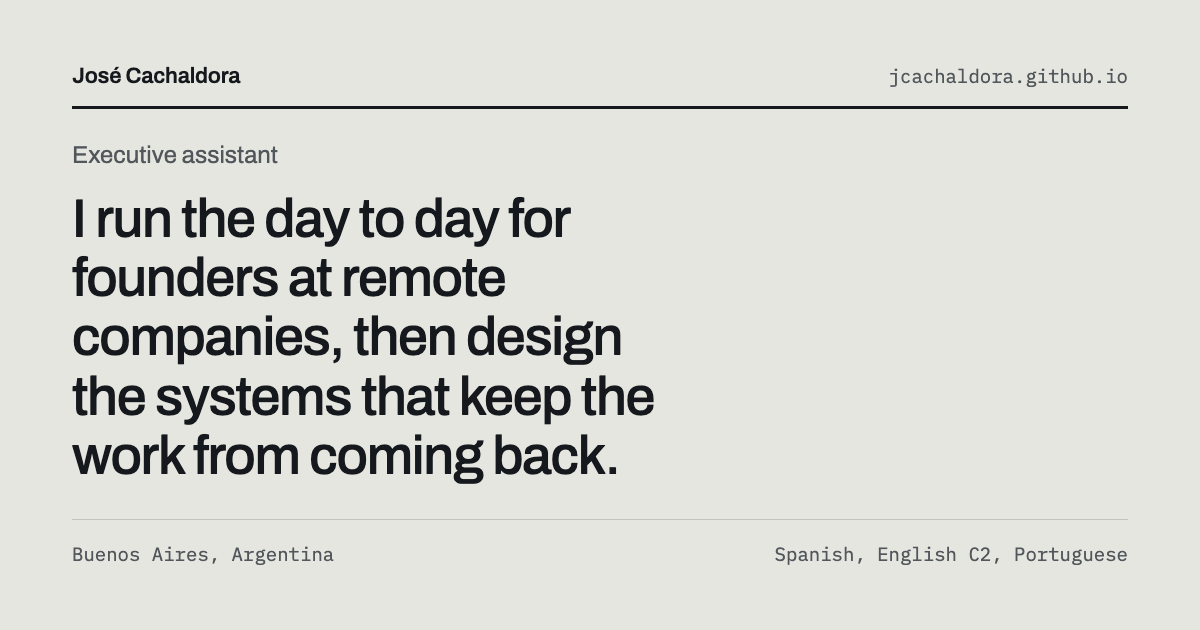
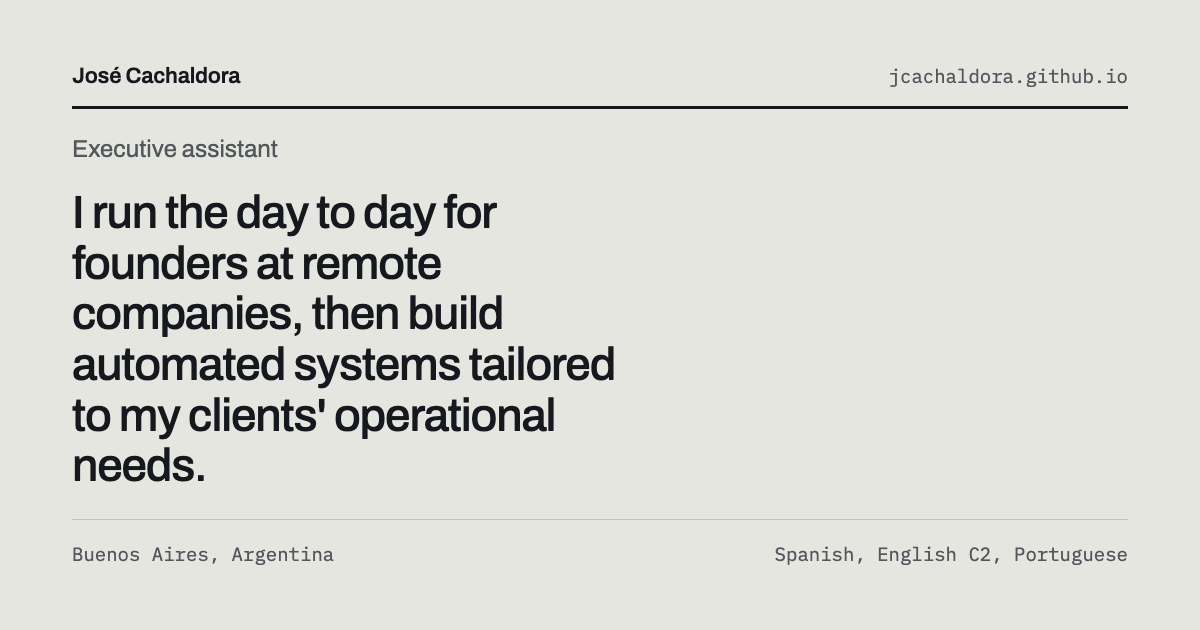
Update headline, working hours, time zones and tools

Changed region(s): [[0.0617, 0.3016, 0.555, 0.7841], [0.0617, 0.2111, 0.2467, 0.2714]]

diff --git a/index.html b/index.html
@@ -4,22 +4,22 @@
 <meta charset="utf-8">
 <meta name="viewport" content="width=device-width, initial-scale=1">
 <title>José Cachaldora, Executive Assistant in Buenos Aires</title>
-<meta name="description" content="Executive assistant in Buenos Aires. I run the day to day for founders at remote companies and design the systems that keep repetitive work from coming back.">
+<meta name="description" content="Executive assistant in Buenos Aires. I run the day to day for founders at remote companies and build automated systems tailored to my clients' operational needs.">
 <meta property="og:type" content="website">
 <meta property="og:url" content="https://jcachaldora.github.io/">
 <meta property="og:title" content="José Cachaldora, Executive Assistant in Buenos Aires">
-<meta property="og:description" content="Executive assistant in Buenos Aires. I run the day to day for founders at remote companies and design the systems that keep repetitive work from coming back.">
+<meta property="og:description" content="Executive assistant in Buenos Aires. I run the day to day for founders at remote companies and build automated systems tailored to my clients' operational needs.">
 <meta property="og:locale" content="en_US">
 <meta property="og:site_name" content="José Cachaldora">
 <meta property="og:image" content="https://jcachaldora.github.io/og.png">
 <meta property="og:image:type" content="image/png">
 <meta property="og:image:width" content="1200">
 <meta property="og:image:height" content="630">
-<meta property="og:image:alt" content="A grey card reading: Jose Cachaldora, executive assistant. I run the day to day for founders at remote companies, then design the systems that keep the work from coming back.">
+<meta property="og:image:alt" content="A grey card reading: Jose Cachaldora, executive assistant. I run the day to day for founders at remote companies, then build automated systems tailored to my clients' operational needs.">
 <meta name="twitter:card" content="summary_large_image">
 <meta name="twitter:image" content="https://jcachaldora.github.io/og.png">
 <meta name="twitter:title" content="José Cachaldora, Executive Assistant in Buenos Aires">
-<meta name="twitter:description" content="Executive assistant in Buenos Aires. I run the day to day for founders at remote companies and design the systems that keep repetitive work from coming back.">
+<meta name="twitter:description" content="Executive assistant in Buenos Aires. I run the day to day for founders at remote companies and build automated systems tailored to my clients' operational needs.">
 <link rel="preconnect" href="https://fonts.googleapis.com">
 <link rel="preconnect" href="https://fonts.gstatic.com" crossorigin>
 <link href="https://fonts.googleapis.com/css2?family=Archivo:wdth,wght@75..110,400..700&family=IBM+Plex+Mono:wght@400;500&display=swap" rel="stylesheet">
@@ -148,7 +148,7 @@ h2{font-size:1.25rem;font-weight:600;line-height:1.25;letter-spacing:-0.01em;}
 .js .fig .n{display:inline-block;clip-path:inset(0 100% 0 0);transition:clip-path 380ms var(--ease);transition-delay:var(--d,0ms);}
 .js .figs.in .fig .n{clip-path:inset(0 0 0 0);}
 .figrow:nth-child(1){--d:0ms;} .figrow:nth-child(2){--d:70ms;} .figrow:nth-child(3){--d:140ms;}
-.figrow:nth-child(4){--d:210ms;} .figrow:nth-child(5){--d:280ms;} .figrow:nth-child(6){--d:350ms;}
+.figrow:nth-child(4){--d:210ms;} .figrow:nth-child(5){--d:280ms;}
 @media (max-width:640px){
   .figrow{grid-template-columns:1fr;row-gap:8px;align-items:start;}
   .fig,.clause,.unit{grid-column:1;grid-row:auto;}
@@ -232,11 +232,11 @@ footer{padding:20px 0 40px;font-size:0.8125rem;color:var(--ink-mid);}
     <div class="hero">
       <p class="role">Executive assistant</p>
       <div class="herogrid">
-        <h1 class="headline">I run the day to day for founders at remote companies, then design the systems that keep the work from coming back.</h1>
+        <h1 class="headline">I run the day to day for founders at remote companies, then build automated systems tailored to my clients' operational needs.</h1>
         <aside class="rail">
           <dl class="railset">
-            <dt>Based in</dt><dd>Buenos Aires, Argentina</dd>
-            <dt>Time zone</dt><dd>UTC-3, year round</dd>
+            <dt>Based in</dt><dd>Buenos Aires, Argentina (GMT-3)</dd>
+            <dt>Zones worked</dt><dd>CET, EET, EST, CST, MST, PST</dd>
             <dt>Local time</dt><dd><time class="now">00:00:00</time></dd>
             <dt>Available</dt><dd>Now</dd>
           </dl>
@@ -244,7 +244,7 @@ footer{padding:20px 0 40px;font-size:0.8125rem;color:var(--ink-mid);}
       </div>
       <dl class="langs">
         <dt>Spanish</dt><dd>Native</dd>
-        <dt>English</dt><dd>C2, EF SET 81/100, 2026</dd>
+        <dt>English</dt><dd>C2</dd>
         <dt>Portuguese</dt><dd>Fluent</dd>
       </dl>
     </div>
@@ -258,7 +258,7 @@ footer{padding:20px 0 40px;font-size:0.8125rem;color:var(--ink-mid);}
         <p class="note">Work completed in previous roles.</p>
       </div>
       <div class="main">
-        <p class="lead">What I have done, with the figures attached.</p>
+        <p class="lead">The work, in numbers.</p>
 
         <div class="figs" data-anim>
           <div class="figrow">
@@ -274,12 +274,6 @@ footer{padding:20px 0 40px;font-size:0.8125rem;color:var(--ink-mid);}
           </div>
 
           <div class="figrow">
-            <p class="fig"><span class="n">4</span></p>
-            <p class="unit">clients</p>
-            <p class="clause">Operations consulting clients.</p>
-          </div>
-
-          <div class="figrow">
             <p class="fig"><span class="n">600</span></p>
             <p class="unit">attendees</p>
             <p class="clause">Attendees at events, run from coordination to execution.</p>
@@ -292,7 +286,7 @@ footer{padding:20px 0 40px;font-size:0.8125rem;color:var(--ink-mid);}
           </div>
 
           <div class="figrow">
-            <p class="fig"><span class="n">5+</span></p>
+            <p class="fig"><span class="n">20+</span></p>
             <p class="unit">hours per week</p>
             <p class="clause">Weekly hours saved by one documented redesign of an executive briefing.
               <span class="extra">That saving belongs to one briefing and to nothing else here.</span>
@@ -305,7 +299,7 @@ footer{padding:20px 0 40px;font-size:0.8125rem;color:var(--ink-mid);}
     <section class="band sec row" data-anim aria-labelledby="systems">
       <div class="key">
         <h2 id="systems">Systems</h2>
-        <p class="note">One system built. One in discovery.</p>
+        <p class="note">An example of the systems I have created.</p>
       </div>
       <div class="main">
         <p class="lead">Two systems I designed to take repetitive work out of a business. Each one states where it stands.</p>
@@ -358,7 +352,7 @@ footer{padding:20px 0 40px;font-size:0.8125rem;color:var(--ink-mid);}
         <h2 id="tools">Tools</h2>
       </div>
       <div class="main">
-        <p class="prose">Google Workspace, Microsoft 365, Notion, ClickUp, Make, n8n, Canva, and the Claude and OpenAI APIs.</p>
+        <p class="prose">Google Workspace, Microsoft 365, Microsoft Dynamics, Notion, ClickUp, HubSpot, Mailchimp, QuickBooks, Zoom Webinars, Make, n8n, Canva, and the Claude and OpenAI APIs.</p>
       </div>
     </section>
 
